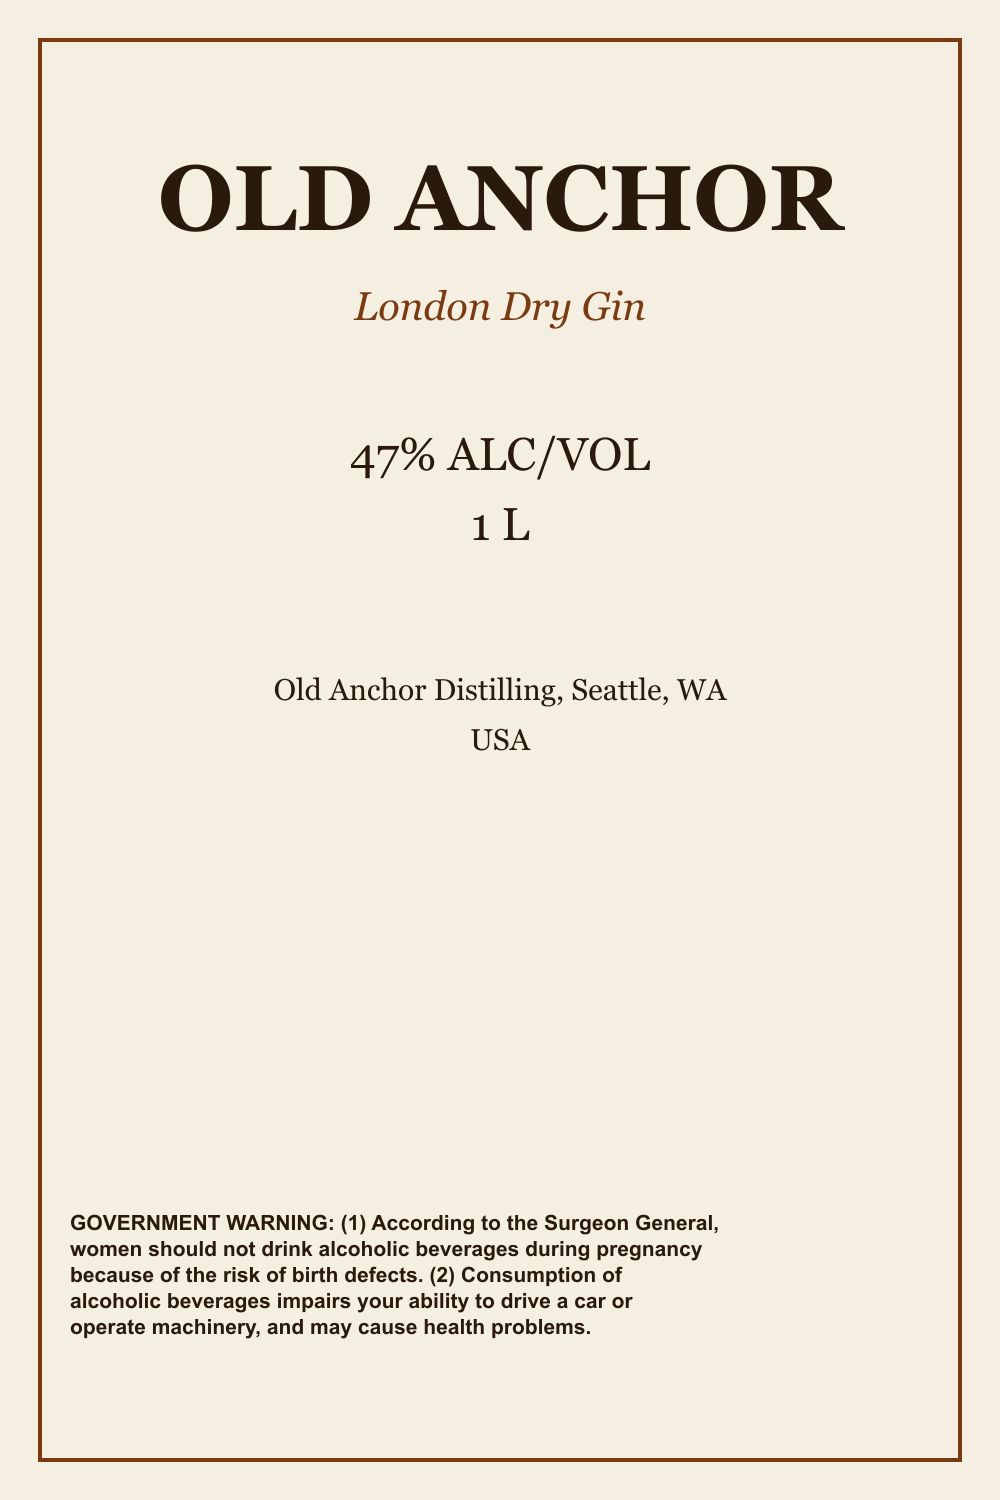
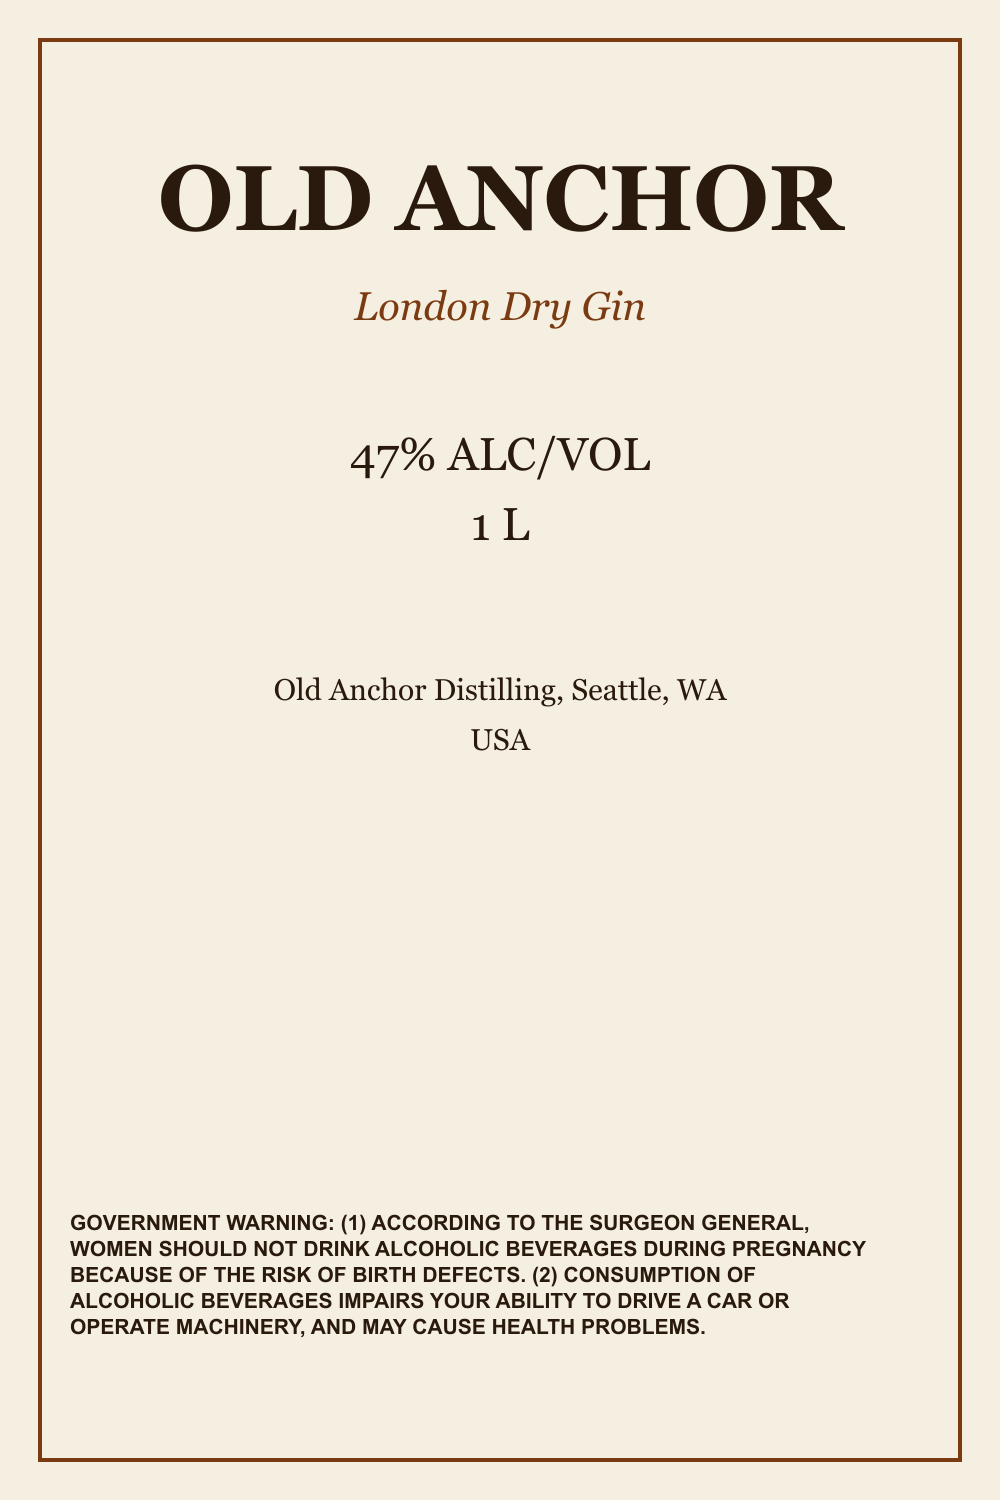
Grade the government warning in ALL CAPS (whole statement)
Previously only the "GOVERNMENT WARNING" header was caps; the body was mixed case.
Match TTB label practice (and the peer console): the entire statement is now held
and graded in ALL CAPITAL LETTERS.

- lib/ttb.ts: canonical warning is now all-caps.
- lib/matcher.ts: correct wording that isn't all-caps gets a distinct, actionable
  flag ("must be printed in ALL CAPITAL LETTERS") instead of a generic mismatch; a
  verbatim all-caps match still notes bold can't be verified from a photo.
- scripts/make-sample-labels.mjs + regenerated public/labels/*.png +
  ground-truth.json: sample labels now print the warning in all caps.
- +1 matcher test (mixed-case wording → mismatch); eval re-run (still 94%,
  governmentWarning 100%).

Verified: clean build, 68/68 vitest, lint 2 pre-existing; live /api/review on a
label → warning status "match", extracted text fully uppercase.

Changed region(s): [[0.062, 0.7973, 0.868, 0.8893]]

diff --git a/lib/ttb.ts b/lib/ttb.ts
@@ -1,18 +1,16 @@
 /**
- * The federally mandated Alcoholic Beverage Health Warning Statement.
+ * The federally mandated Alcoholic Beverage Health Warning Statement (27 CFR 16.21).
  *
- * Source: 27 CFR 16.21. The wording, order, and the literal "GOVERNMENT WARNING:"
- * prefix (which must appear in capital letters and bold on the label) are fixed by
- * regulation. Junior agents check this VERBATIM — this constant is our source of truth.
+ * Stored in ALL CAPITAL LETTERS: the statement is required on the label in all caps (with
+ * "GOVERNMENT WARNING" additionally in bold type). We grade the transcription against this canonical
+ * all-caps text VERBATIM — a warning with the right wording but not in all caps is flagged. This
+ * constant is our single source of truth.
  *
- * NOTE (limitation): from a transcription we can verify the exact wording and
- * capitalization, but NOT the required bold typeface. That gap is documented for
- * the reviewing agent rather than silently assumed.
- *
- * Source: 27 CFR 16.21 — reproduced verbatim (character-for-character).
+ * NOTE (limitation): a transcription can verify the exact wording and the ALL-CAPS casing, but NOT
+ * the required bold typeface — that gap is surfaced for the reviewing agent, not silently assumed.
  */
 export const TTB_GOVERNMENT_WARNING =
-  "GOVERNMENT WARNING: (1) According to the Surgeon General, women should not drink alcoholic beverages during pregnancy because of the risk of birth defects. (2) Consumption of alcoholic beverages impairs your ability to drive a car or operate machinery, and may cause health problems.";
+  "GOVERNMENT WARNING: (1) ACCORDING TO THE SURGEON GENERAL, WOMEN SHOULD NOT DRINK ALCOHOLIC BEVERAGES DURING PREGNANCY BECAUSE OF THE RISK OF BIRTH DEFECTS. (2) CONSUMPTION OF ALCOHOLIC BEVERAGES IMPAIRS YOUR ABILITY TO DRIVE A CAR OR OPERATE MACHINERY, AND MAY CAUSE HEALTH PROBLEMS.";
 
 /** The mandated prefix, which must be in caps + bold on the label. */
 export const TTB_WARNING_PREFIX = "GOVERNMENT WARNING:";

diff --git a/lib/matcher.ts b/lib/matcher.ts
@@ -358,17 +358,24 @@ function gradeVolume(extracted: string, expected: string): Verdict {
 
 function gradeGovernmentWarning(extracted: string): Verdict {
   const got = tightenWhitespace(extracted);
-  const want = tightenWhitespace(TTB_GOVERNMENT_WARNING);
+  const want = tightenWhitespace(TTB_GOVERNMENT_WARNING); // canonical, ALL CAPS
   if (got === want) {
-    // Text + capitalization are verified verbatim. The one thing a photo transcription can't
+    // Wording + ALL-CAPS casing are verified verbatim. The one thing a photo transcription can't
     // confirm is the required bold typeface, so ask the agent to eyeball that rather than letting
     // the app imply a fully-verified warning.
     return {
       status: "match",
-      note: "Text and capitalization match verbatim. Bold typeface can't be verified from a photo — confirm it visually.",
+      note: "Exact wording and ALL CAPS verified. Bold typeface can't be confirmed from a photo — check it visually.",
     };
   }
-  if (!got.startsWith(TTB_WARNING_PREFIX)) {
+  // Right wording but not in all capitals — a distinct, actionable flag (TTB requires all caps).
+  if (got.toUpperCase() === want) {
+    return {
+      status: "mismatch",
+      note: "Wording is correct, but the statement must be printed in ALL CAPITAL LETTERS.",
+    };
+  }
+  if (!got.toUpperCase().startsWith(TTB_WARNING_PREFIX)) {
     return {
       status: "mismatch",
       note: 'Warning must begin exactly with "GOVERNMENT WARNING:" — it does not.',

diff --git a/lib/matcher.test.ts b/lib/matcher.test.ts
@@ -145,10 +145,18 @@ describe("government warning", () => {
     expect(note.toLowerCase()).toContain("bold");
     expect(note.toLowerCase()).toContain("visually");
   });
+  it("flags correct wording that is not in all capital letters", () => {
+    const mixedCase =
+      "GOVERNMENT WARNING: (1) According to the Surgeon General, women should not drink alcoholic beverages during pregnancy because of the risk of birth defects. (2) Consumption of alcoholic beverages impairs your ability to drive a car or operate machinery, and may cause health problems.";
+    const r = reviewLabel(buildLabel({ governmentWarning: field(mixedCase) }), silverCreekApp);
+    expect(statusOf(r, "governmentWarning")).toBe("mismatch");
+    const note = r.fields.find((x) => x.key === "governmentWarning")?.note ?? "";
+    expect(note.toLowerCase()).toContain("capital letters");
+  });
   it("flags altered wording as mismatch", () => {
     const altered = TTB_GOVERNMENT_WARNING.replace(
-      "birth defects",
-      "birth complications",
+      "BIRTH DEFECTS",
+      "BIRTH COMPLICATIONS",
     );
     const r = reviewLabel(
       buildLabel({ governmentWarning: field(altered) }),

diff --git a/README.md b/README.md
@@ -72,11 +72,12 @@ This split is deliberate and does two things at once:
 
 ## How grading works
 
-- **Government warning** — matched **verbatim** against the canonical 27 CFR 16.21 text
-  ([`lib/ttb.ts`](lib/ttb.ts)). Any wording or capitalization deviation is flagged. *Known limit:
-  a photo transcription can verify the exact text and caps, but not the required **bold** typeface —
-  so a verbatim match explicitly asks the agent to confirm the bold weight visually rather than
-  implying a fully-verified warning.*
+- **Government warning** — matched **verbatim** against the canonical 27 CFR 16.21 text, which is
+  held in **ALL CAPITAL LETTERS** ([`lib/ttb.ts`](lib/ttb.ts)). Any wording deviation is flagged, and
+  a warning with the right wording but **not in all caps** is called out specifically ("must be
+  printed in ALL CAPITAL LETTERS"). *Known limit: a photo transcription can verify the exact text and
+  its all-caps casing, but not the required **bold** typeface — so a verbatim match explicitly asks
+  the agent to confirm the bold weight visually rather than implying a fully-verified warning.*
 - **Alcohol content** — parsed to a number and compared with tolerance, so "40% ALC/VOL" and
   "40% ABV" match, but 40% vs 45% is flagged.
 - **Net contents** — unit-aware ("750 mL" == "750ML", "1 L" == "1000 mL").

diff --git a/STATE.md b/STATE.md
@@ -117,8 +117,10 @@ a "Low photo quality" pill in the queue / bulk verify. Verified live: a heavily 
    (each label on its own), `application` (all files vs one filing), and `queue` (each file paired
    with its own `applicationId` — the queue's bulk verify). All three run through the same
    synchronous chunk path.
-5. **Government warning is matched verbatim** (strict); other fields tolerant-normalized. A
-   photo cannot verify **bold** formatting — known, documented limit.
+5. **Government warning is matched verbatim in ALL CAPITAL LETTERS** (strict — canonical in
+   `lib/ttb.ts` is all-caps; correct wording that isn't all-caps is flagged "must be ALL CAPITAL
+   LETTERS"); other fields tolerant-normalized. A photo cannot verify **bold** formatting — known,
+   documented limit (surfaced for visual confirmation).
 6. **Latency budget ~5s**, dominated by the single Haiku vision call. Measured and surfaced,
    not asserted.
 7. **Claude spend is controlled at the account level** (Anthropic Console usage limits), NOT in

diff --git a/ROADMAP.md b/ROADMAP.md
@@ -84,6 +84,12 @@ batch keeps drag-and-drop. Government-warning verbatim matches now flag that bol
 visual check (Jenny's requirement). Nav is Queue + Check labels. Backend unchanged; `next build` +
 61/61 vitest green; adaptive single/batch switch verified live at zero API cost._
 
+_Follow-up — all-caps government warning:_ the canonical warning (`lib/ttb.ts`) is now held in ALL
+CAPITAL LETTERS and the whole statement is graded that way — correct wording that isn't all-caps is
+flagged specifically ("must be printed in ALL CAPITAL LETTERS"), matching TTB label practice. Sample
+labels regenerated in all-caps (`scripts/make-sample-labels.mjs` + `ground-truth.json`); bold still
+can't be verified from a photo so it's flagged for visual confirmation. +1 matcher test.
+
 ## Step 10 — Image-quality outcome  ☑
 Extraction self-reports overall `imageQuality` (clear/partial/poor); a **poor** read becomes its own
 "Needs a clearer photo" recommendation (new `image` level, top precedence) so an unreadable photo is
